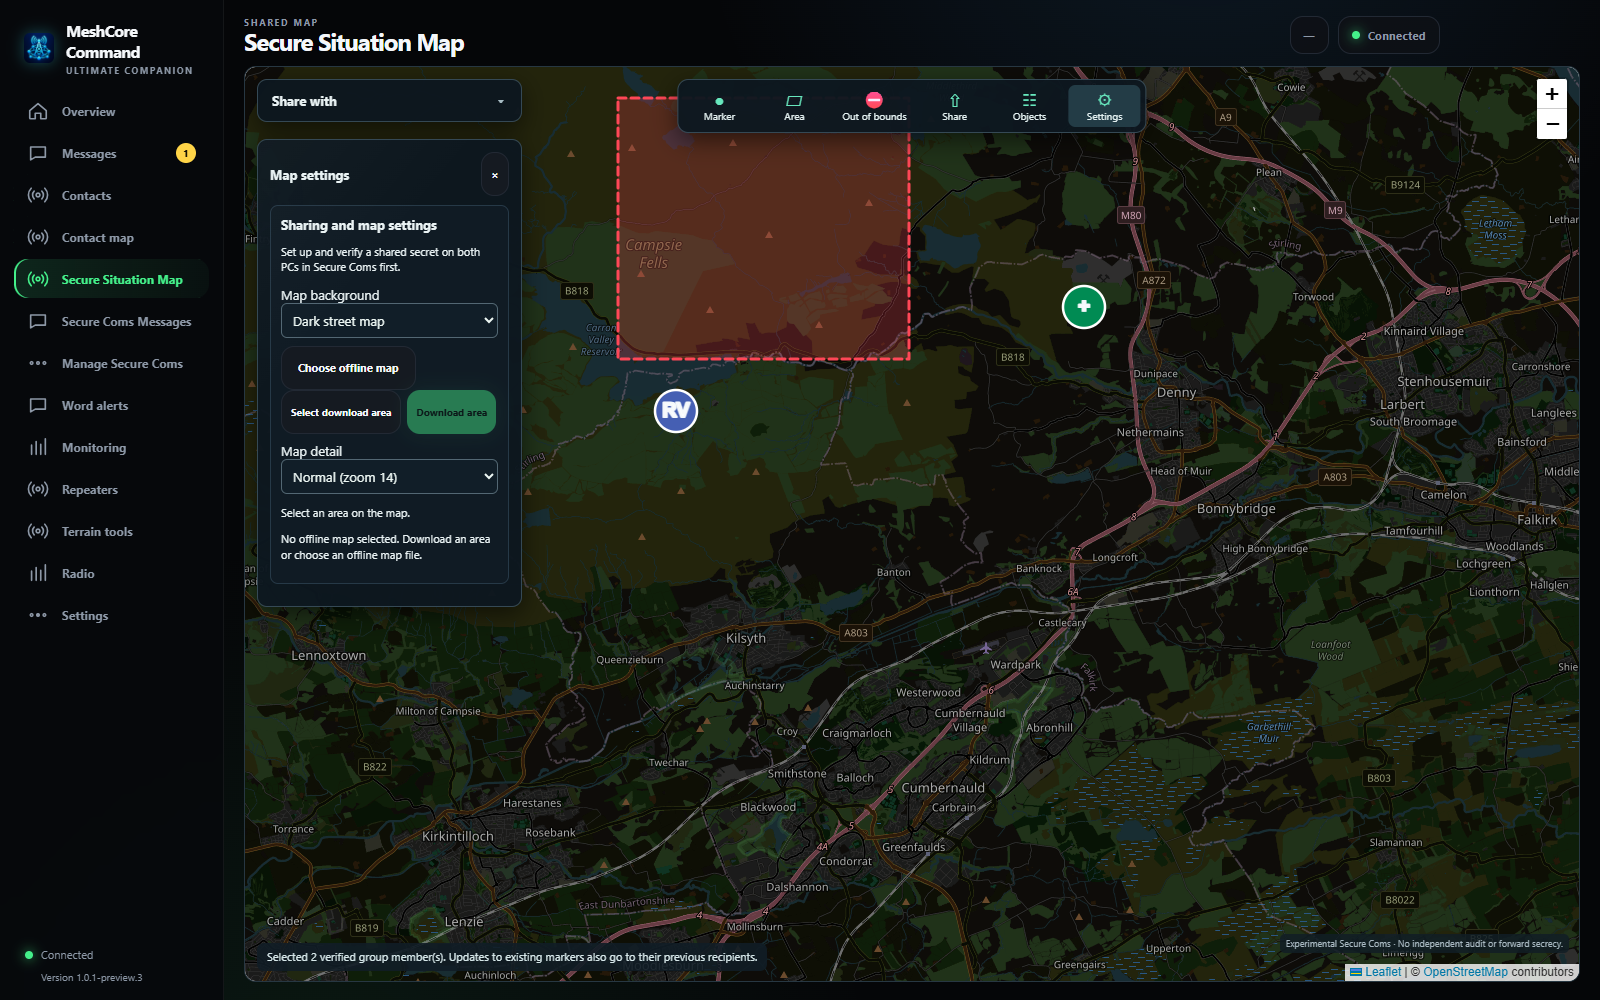
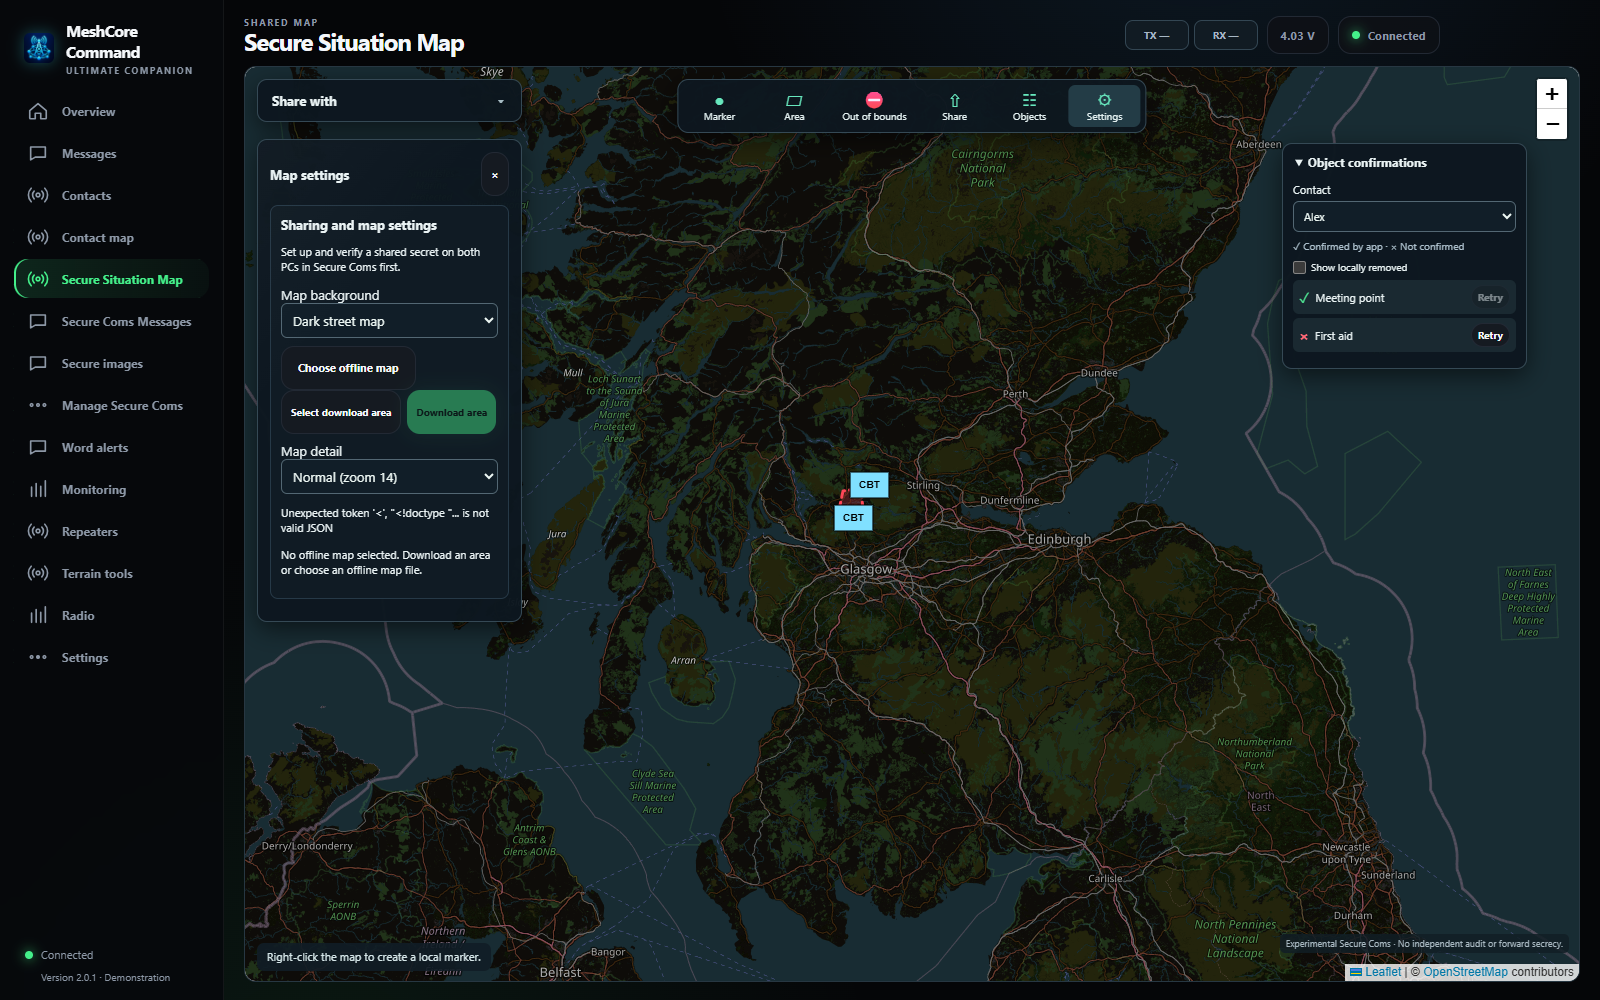
Refresh 2.0.1 documentation and screenshots

diff --git a/docs/USER-MANUAL.md b/docs/USER-MANUAL.md
@@ -13,7 +13,7 @@ MeshCore Command is a Windows desktop companion for a compatible Wi-Fi MeshCore 
 
 1. Start MeshCore Command. If your radio is already configured, select or enter its IP address. You can save several radios with names for future use.
 2. To find a radio, enter the appropriate local network subnet and choose **Scan network**. Progress shows probes attempted followed by a wait for replies; a probe is not proof that an address is reachable. If you use a VPN or multiple adapters, check that the selected subnet belongs to the Wi-Fi network. You can also enter the IP manually.
-3. Select **Connect**. Only one companion controller should use the radio connection at a time.
+3. Select **Connect**. An animated loading screen appears for at least six seconds while the radio view opens. Only one companion controller should use the radio connection at a time.
 
 The setup window hides while the radio window is open. The app protects an active radio session from another window on supported Windows webviews. If **Another tab active** persists, close any other Command windows and reconnect. The app must remain connected to receive messages and show alerts; the minimise-and-restore fix has not yet been verified with a live radio.
 
@@ -43,6 +43,8 @@ Select a conversation and use **Edit** or **Delete** in its header. Editing a ch
 Right-click a message and choose **Delete from this PC** to remove its local copy. For a sent message, **Edit and send a correction** prepares a new message; review it and send it yourself. Previously delivered messages cannot be edited or deleted on other devices.
 
 A delivery tick or acknowledgement applies only when the protocol reports one; a queued message is not proof that it was received or read. Channel broadcasts do not offer individual delivery confirmation for every recipient.
+
+The **TX** and **RX** indicators at the top summarize activity observed by the app. Select **TX** to open the transmission status panel and review recent queue results and radio acknowledgements. Packet counters update periodically; the indicators are not continuous measurements of radio airtime. A radio acknowledgement does not establish that a person read a message.
 
 ### Room servers
 
@@ -115,7 +117,7 @@ To draw an area, choose **Area** or **Out of bounds**, enter a short name, click
 
 Use **Share with** to select verified contacts or apply a local group. With no recipients selected, new objects stay on this PC. Changes to previously shared markers also go to their previous recipients after confirmation. **Send picture to selected** queues new and changed markers and areas separately for each selected recipient; previously confirmed revisions are skipped. In **More sharing options**, select **Force full picture** to resend confirmed objects, or opt in to forwarding received markers.
 
-The sharing queue runs while you use the app, survives restart, and resumes after your radio reconnects. Unconfirmed updates are retried with increasing delays. **Pause queue** stops further attempts; use **Resume queue** to continue. Changes to an object waiting in the queue replace its older queued revision. The object confirmations panel shows each recipient's result and provides an individual retry. A pending deletion can be removed from your local lists without claiming the other person deleted it. App acknowledgements indicate a saved update, not that someone saw it. The experimental protocol is not ATAK compatible.
+The sharing queue runs while you use the app, survives restart, and resumes after your radio reconnects. Unconfirmed updates are retried with increasing delays. **Pause queue** stops further attempts; use **Resume queue** to continue. Changes to an object waiting in the queue replace its older queued revision. The object confirmations panel shows each recipient's result and provides an individual retry. A pending deletion can be removed from your local lists without claiming the other person deleted it. Select **Show locally removed** in the confirmations panel to restore it to the list; a later picture send can still retry a pending deletion. App acknowledgements indicate a saved update, not that someone saw it. The experimental protocol is not ATAK compatible.
 
 For an offline background, open **Settings**, select **Select download area**, click two opposite corners on the map, choose a detail level and select **Download area**. The initial download needs internet and obtains a verified Protomaps helper. Larger areas or higher detail take more space and time. You can also import a Protomaps vector PMTiles file or raster MBTiles file. Online maps include light and dark street styles. The downloaded background works offline within its saved area and zoom levels. Terrain coverage calculations require separate online elevation data.
 
@@ -127,6 +129,7 @@ For an offline background, open **Settings**, select **Select download area**, c
 - **No telemetry or status:** check reachability, compatible firmware and permissions. A timeout does not establish why a node did not respond.
 - **No desktop alert:** use the test button and check Windows notification and focus settings; keep the app connected.
 - **Missing room history:** check login and the saved direct route. Only retained posts the server can provide can be requested.
+- **Image transfer not confirmed:** check that both installations support Secure Images, both radios are connected, and the contact is verified in Secure Coms. A weak link can delay or interrupt individual packets. If the transfer stops, start it again; incomplete images are not displayed.
 - **Unsupported request or old firmware:** a control may be unavailable even if it appears in the interface. Read the response before retrying or changing settings.
 
 For local Scotland guidance, see the [ScotMesh MeshCore FAQ](https://wiki.scotmesh.uk/en/MeshCore/faq). For implementation details and limitations, see the [desktop notes](../MeshCore%20Desktop/README.md).

diff --git a/README.md b/README.md
@@ -31,6 +31,8 @@ Version 2.0 adds a persistent sharing queue with automatic retries, pause and re
 
 Convert an image on your PC into a small JPEG thumbnail, preview its size and packet count, and send it to a verified Secure Coms contact. Both installations need the image-enabled update. Each encrypted packet is confirmed separately, so transfers can take several minutes and use substantial mesh airtime. Received thumbnails are stored locally on the PC. See the [manual](docs/USER-MANUAL.md#secure-images) for details and limitations.
 
+![Secure Images page showing a simulated converted image and received thumbnail](docs/images/secure-images.png)
+
 ### Find other Command users
 
 In **Manage Secure Coms**, use **Discover Command installs** to send a discovery request on the Public channel using the radio's default flood scope. Other compatible, running Command installations can respond. Responses announce their public key and app presence, and automatic responses can be turned off. Discovery replies are unverified and can be spoofed: exchange a secret privately and compare fingerprints before trusting a contact. Other MeshCore apps may display discovery traffic as ordinary channel messages.
@@ -50,6 +52,10 @@ See radio status, recent activity, monitored nodes and quick actions in one plac
 Switch between direct messages, channels and rooms; unread counts show which tabs and conversations have new messages. Choose a flood scope for a channel.
 
 ![Example channel conversation and flood scope selector](docs/images/messages.png)
+
+The TX and RX indicators summarize observed activity. Open TX to inspect recent queue and acknowledgement results; these indicators do not show continuous radio airtime.
+
+![Transmission status panel showing a simulated radio acknowledgement](docs/images/transmission-status.png)
 
 ### Elevation finder
 

diff --git a/docs/SCREENSHOTS.md b/docs/SCREENSHOTS.md
@@ -1,6 +1,6 @@
 # MeshCore Command screenshots
 
-Screens show the current interface with simulated contacts, messages, addresses, telemetry and map markers. Map data © OpenStreetMap contributors.
+Screens show the version 2.0.1 interface with simulated contacts, messages, addresses, telemetry, thumbnails and map markers. The example address belongs to a documentation-only network. Map data © OpenStreetMap contributors.
 
 ## Connect
 
@@ -40,7 +40,7 @@ View known locations and packet information.
 
 ## Secure Situation Map
 
-Use the floating toolbar to create markers and areas and share them with selected secure contacts or a group.
+Use the floating toolbar to create markers and areas and share them with selected secure contacts or a group. The confirmations panel shows per-contact results and retries.
 
 ![Situation map screen](images/situation-map.png)
 
@@ -49,6 +49,12 @@ Use the floating toolbar to create markers and areas and share them with selecte
 Send encrypted messages to individual contacts.
 
 ![Secure Coms Messages screen](images/secure-coms.png)
+
+## Secure images
+
+Convert and preview a thumbnail, review the packet count and choose a verified recipient. Received thumbnails appear on the right.
+
+![Secure images screen with a converted sample and received thumbnail](images/secure-images.png)
 
 ## Secure groups
 
@@ -67,6 +73,12 @@ Manage secure contacts, verify fingerprints and arrange local groups.
 Export or import an encrypted backup of secure settings.
 
 ![Secure Coms backup](images/secure-backup.png)
+
+## Transmission status
+
+Open the TX indicator to see recent queue and radio acknowledgement results. These indicators do not show continuous radio airtime.
+
+![Transmission status panel over the Messages page](images/transmission-status.png)
 
 ## Situation map settings
 
